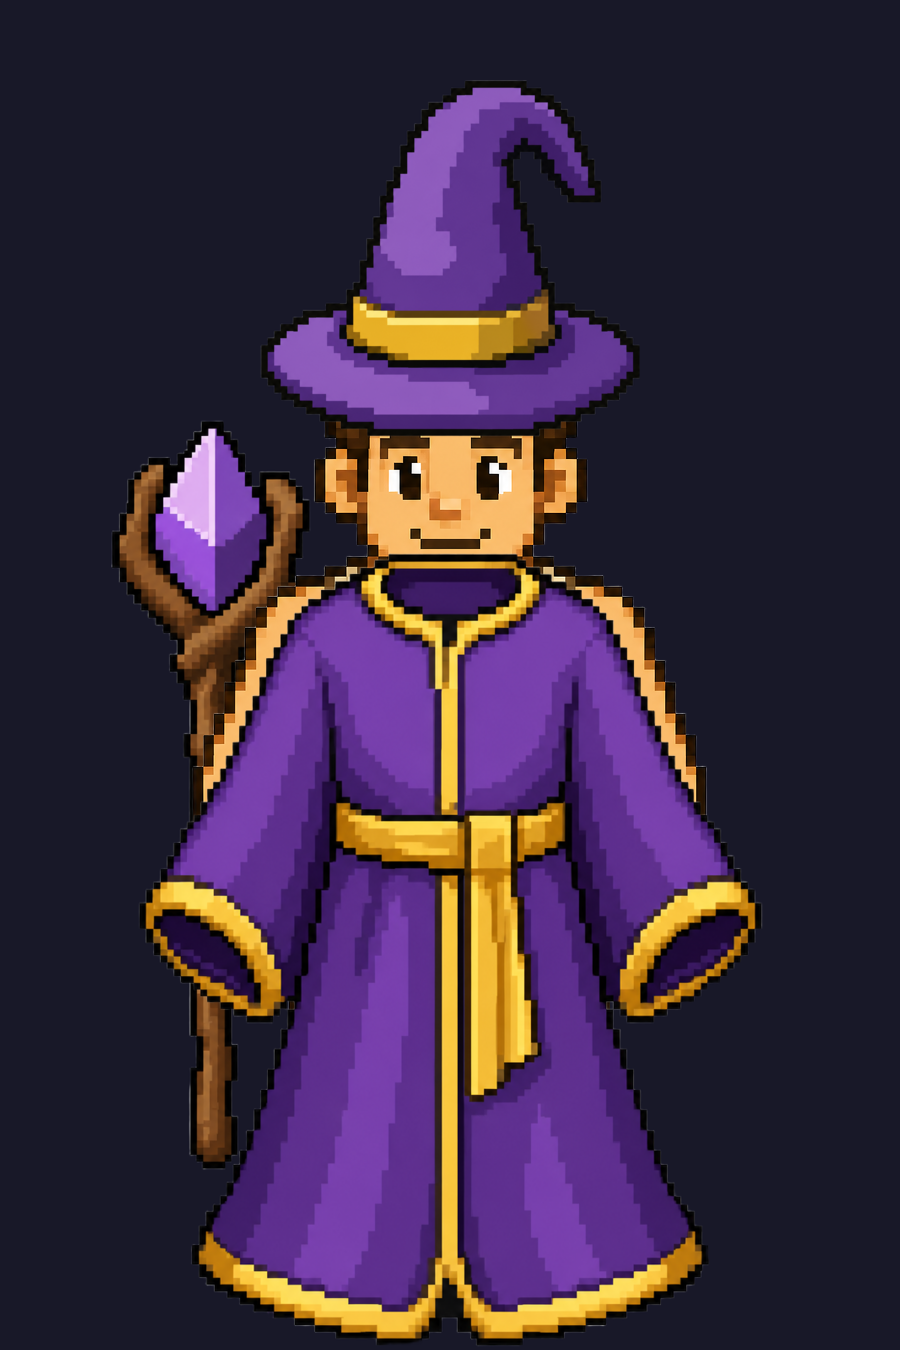
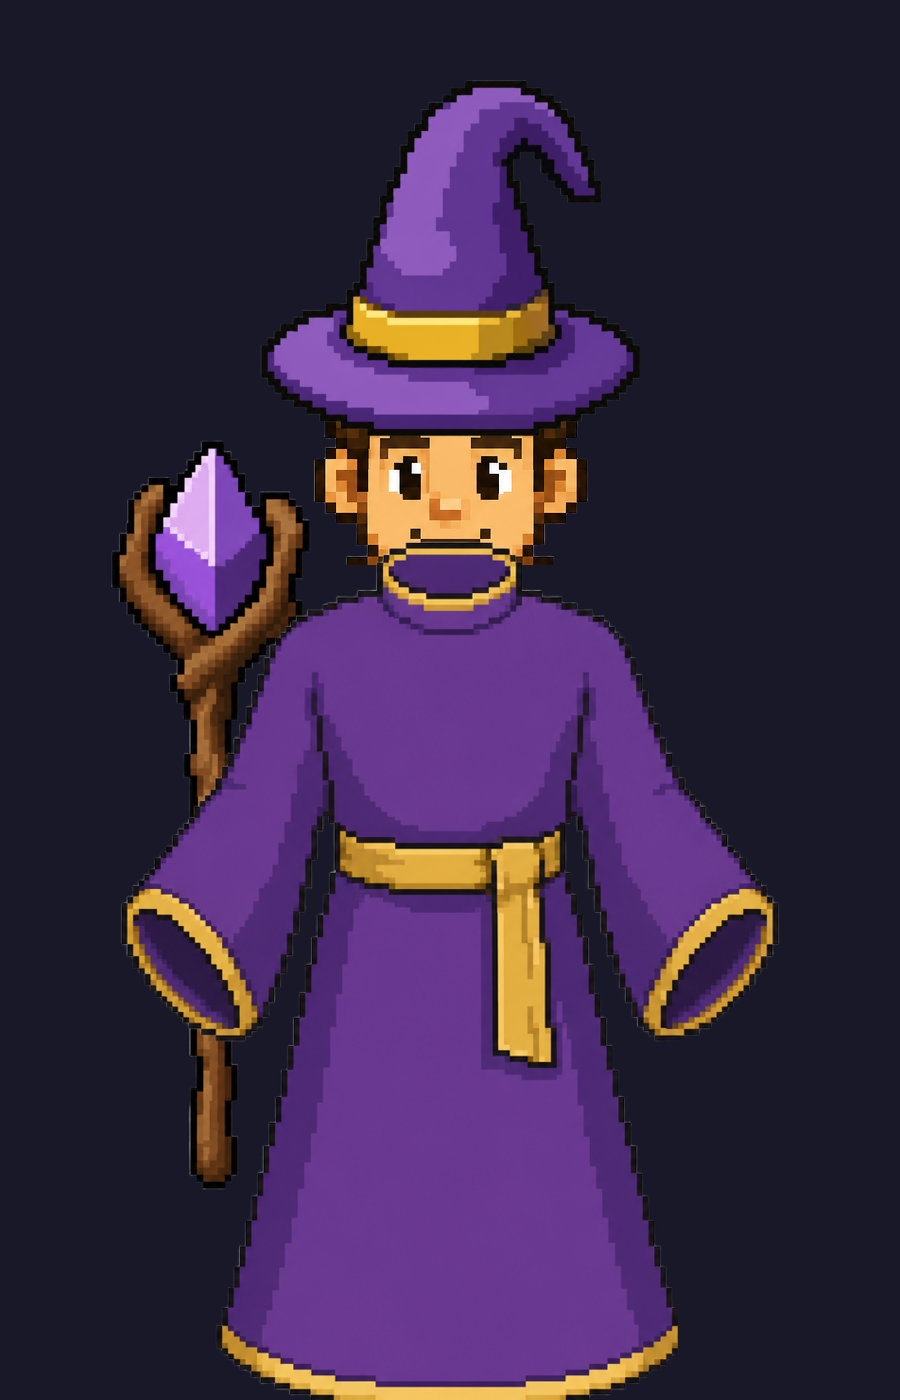
Update agent assets and add new paperdoll robe configuration
Replit-Commit-Author: Agent

diff --git a/.agents/memory/cyoa-paperdoll.md b/.agents/memory/cyoa-paperdoll.md
@@ -1,0 +1,17 @@
+---
+name: CYOA paper-doll gear system
+description: Art direction + layering lessons for the modular paper-doll character system (in progress, approval-gated)
+---
+# Paper-doll system (replacing AI portraits for gear display)
+
+**Approved direction:** layered transparent sprites on shared canvas; human masc+fem bodies only in V1; class comes from gear, not body; architecture must allow future species rigs with per-rig fitted item variants. Hard gate: ONE benchmark wizard approved by user before building anything else.
+
+**Art style (user-approved target):** chunky simplified 16-bit sprite — flat cel shading, 3-5 tones per material, bold outlines, NO embroidery/ornamentation, stocky cartoon proportions (~4.5 heads), clear face at small sizes. User explicitly rejected "pixelated fantasy illustration" detail. Do not add detail just because resolution allows.
+
+**Layering lessons (critical for renderer design):**
+- Garment assets must be generated as standalone closed items (e.g., robe with CLOSED high collar, no chest opening) — an open collar shows the base body through and reads "pasted on".
+- Full base body behind a garment leaks skin slivers at arms/shoulders. Fix: when a full-coverage garment (robe) is equipped, render only the base body's head+neck crop; the garment occludes everything below. Renderer needs per-garment coverage metadata (e.g., `coverage: fullBody | torso | none`) deciding how much base body to draw.
+- Layer order: staff (back) → base body head → robe → hat.
+- Assets live in `attached_assets/paperdoll/` (v2_* = chunky style, trim_* = fuzz-trimmed); composites tuned with magick -geometry offsets — these offsets are the prototype anchor-point data.
+
+**Why:** user cares deeply about "dressed, not doll behind cutout" look and deliberate simplification; violations caused two rejection rounds.

diff --git a/.agents/memory/MEMORY.md b/.agents/memory/MEMORY.md
@@ -11,4 +11,5 @@
 - [CYOA member roles](cyoa-member-roles.md) — only 3 valid member_role enum values: leader, adult, kid — "founder" does not exist; leaders+adults bypass character cooldown
 - [CYOA wizard AI sprite](cyoa-wizard-ai-sprite.md) — wizard renders an approved AI-generated PNG composite; modular layered assets pending; hard approval gate per class/species
 - [CYOA AI portraits](cyoa-ai-portraits.md) — per-kid gpt-image-1 portraits; unauthenticated image route for <img>; prompt must forbid chunky 8-bit; per-user lock+cooldown
+- [CYOA paper-doll system](cyoa-paperdoll.md) — chunky sprite style, closed-collar garments, head-only base crop under full robes; benchmark approval gate
 - [CYOA routine quest re-issuance](cyoa-routine-reissue.md) — recurring quests are lazily re-issued in listing endpoints via ensureRoutineAssignments; no scheduler exists
